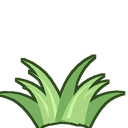
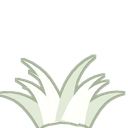
Sample: grass tufts tinted a touch darker than the ground under them
Claude-Session: https://claude.ai/code/session_01R2EQohRet1QfgKEYwNZLap

Changed region(s): [[0.0, 0.4062, 1.0, 1.0]]

diff --git a/tools/make_plants.py b/tools/make_plants.py
@@ -19,6 +19,8 @@ K = 4  # drawn this many times larger, then shrunk (smooth edges)
 INK = (72, 12, 10)
 # Plants: a deep green-brown ink, so small tufts read as green, not dirt.
 PLANT_INK = (46, 74, 30)
+# Outline for pictures the game tints (it's multiplied by the ground colour).
+TINTED_INK = (168, 180, 156)
 
 
 def _blade(d, base, angle, length, width, fill):
@@ -37,18 +39,18 @@ def _blade(d, base, angle, length, width, fill):
     d.polygon(pts_l + pts_r[::-1], fill=fill)
 
 
-def _outline(shape: Image.Image, px: int) -> Image.Image:
+def _outline(shape: Image.Image, px: int, ink=PLANT_INK) -> Image.Image:
     """The shape with an ink outline round it."""
     alpha = shape.getchannel("A")
     grown = alpha.filter(ImageFilter.MaxFilter(px * 2 + 1))
-    ink = Image.new("RGBA", shape.size, PLANT_INK + (0,))
-    ink.putalpha(grown)
-    ink.alpha_composite(shape)
-    return ink
+    out = Image.new("RGBA", shape.size, ink + (0,))
+    out.putalpha(grown)
+    out.alpha_composite(shape)
+    return out
 
 
-def _finish(big: Image.Image) -> Image.Image:
-    big = _outline(big, 2 * K)
+def _finish(big: Image.Image, ink=PLANT_INK) -> Image.Image:
+    big = _outline(big, 2 * K, ink)
     small = big.resize((SIZE, SIZE), Image.LANCZOS)
     return small
 
@@ -129,9 +131,16 @@ def bush(base, shade, light, seed):
 
 def main():
     OUT.mkdir(parents=True, exist_ok=True)
+    # Grass tufts are drawn pale and tinted in the game by the ground
+    # colour under them (a touch darker), so they sit in the grass instead
+    # of standing out from it.
+    for name, big in {
+        "grass_1": tuft((255, 255, 250), (226, 234, 216), 1),
+        "grass_2": tuft((250, 252, 244), (220, 230, 210), 2, blades=9, height=0.5, spread=1.1),
+    }.items():
+        _finish(big, TINTED_INK).save(OUT / f"plant_{name}.png")
+        print("wrote", OUT / f"plant_{name}.png")
     pieces = {
-        "grass_1": tuft((168, 214, 130), (120, 176, 95), 1),
-        "grass_2": tuft((150, 200, 115), (104, 160, 82), 2, blades=9, height=0.5, spread=1.1),
         "flowers_pink": flowers((255, 160, 190), (255, 225, 120), 3),
         "flowers_white": flowers((255, 250, 240), (255, 205, 90), 4),
         "flowers_lilac": flowers((205, 175, 245), (255, 235, 150), 5),
